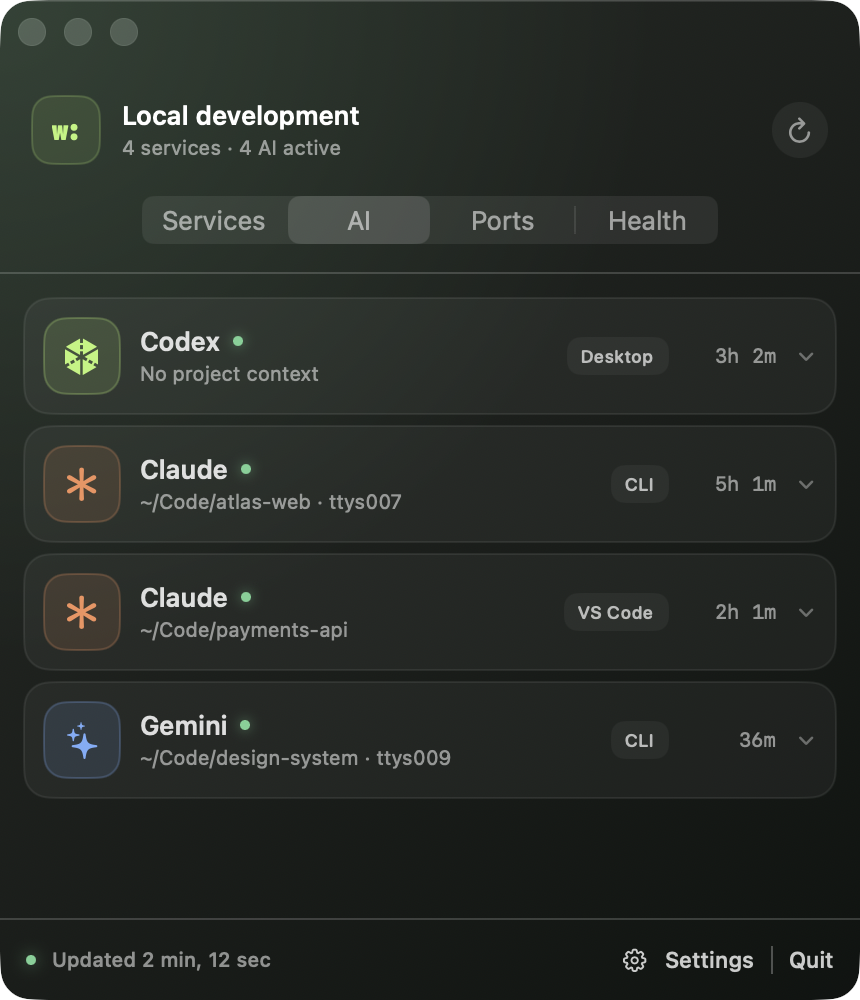
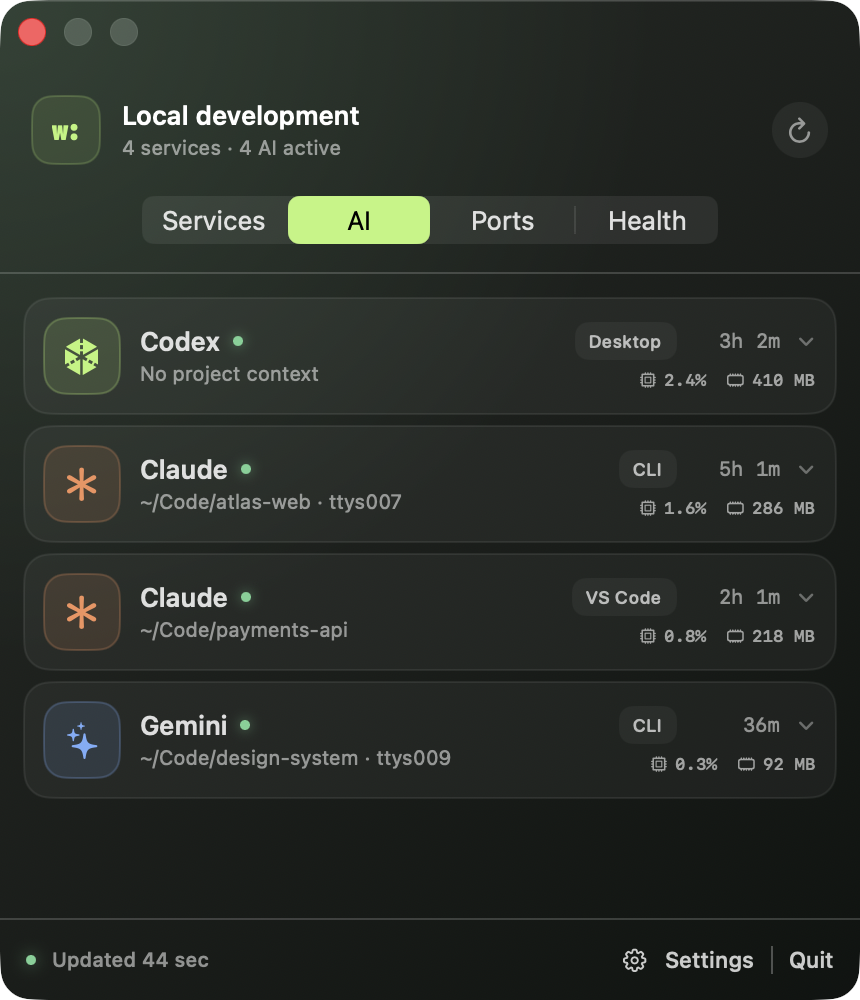
feat: show AI CPU and RAM usage (#5)

diff --git a/WatchioApp/Views/MenuBarContentView.swift b/WatchioApp/Views/MenuBarContentView.swift
@@ -274,19 +274,30 @@ private struct AIActivityRow: View {
             .lineLimit(1)
         }
         Spacer()
-        Text(activity.host.displayName)
-          .font(.system(size: 9, weight: .medium, design: .rounded))
-          .foregroundStyle(.white.opacity(0.68))
-          .padding(.horizontal, 7)
-          .padding(.vertical, 4)
-          .background(Color.white.opacity(0.045), in: RoundedRectangle(cornerRadius: 7))
-        Text(WatchioFormat.uptime(activity))
-          .font(.system(size: 10, design: .monospaced))
-          .foregroundStyle(WatchioPalette.secondaryText)
-          .frame(width: 44, alignment: .trailing)
-        Image(systemName: selected ? "chevron.up" : "chevron.down")
-          .font(.system(size: 8, weight: .bold))
-          .foregroundStyle(WatchioPalette.tertiaryText)
+        VStack(alignment: .trailing, spacing: 5) {
+          HStack(spacing: 8) {
+            Text(activity.host.displayName)
+              .font(.system(size: 9, weight: .medium, design: .rounded))
+              .foregroundStyle(.white.opacity(0.68))
+              .padding(.horizontal, 7)
+              .padding(.vertical, 4)
+              .background(Color.white.opacity(0.045), in: RoundedRectangle(cornerRadius: 7))
+            Text(WatchioFormat.uptime(activity))
+              .font(.system(size: 10, design: .monospaced))
+              .foregroundStyle(WatchioPalette.secondaryText)
+              .frame(width: 44, alignment: .trailing)
+            Image(systemName: selected ? "chevron.up" : "chevron.down")
+              .font(.system(size: 8, weight: .bold))
+              .foregroundStyle(WatchioPalette.tertiaryText)
+          }
+          HStack(spacing: 9) {
+            AIResourceMetric(
+              systemImage: "cpu", label: "CPU", value: WatchioFormat.cpu(activity.cpuPercent))
+            AIResourceMetric(
+              systemImage: "memorychip", label: "RAM",
+              value: WatchioFormat.bytes(activity.memoryBytes))
+          }
+        }
       }
       .padding(10)
       .contentShape(Rectangle())
@@ -300,7 +311,9 @@ private struct AIActivityRow: View {
       RoundedRectangle(cornerRadius: 13, style: .continuous)
         .stroke(selected ? Color.white.opacity(0.13) : WatchioPalette.cardBorder, lineWidth: 1)
     }
-    .accessibilityValue("\(activity.tool.displayName), \(activity.host.displayName)")
+    .accessibilityValue(
+      "\(activity.tool.displayName), \(activity.host.displayName), CPU \(WatchioFormat.cpu(activity.cpuPercent)), RAM \(WatchioFormat.bytes(activity.memoryBytes))"
+    )
     .accessibilityIdentifier("ai-activity-\(activity.id)")
   }
 
@@ -311,6 +324,24 @@ private struct AIActivityRow: View {
   }
 }
 
+private struct AIResourceMetric: View {
+  let systemImage: String
+  let label: String
+  let value: String
+
+  var body: some View {
+    HStack(spacing: 3) {
+      Image(systemName: systemImage)
+        .font(.system(size: 8, weight: .medium))
+      Text(value)
+        .font(.system(size: 8.5, weight: .medium, design: .monospaced))
+    }
+    .foregroundStyle(Color.white.opacity(0.58))
+    .accessibilityElement(children: .ignore)
+    .accessibilityLabel("\(label) \(value)")
+  }
+}
+
 private struct AIActivityDetail: View {
   let activity: DetectedAIActivity
 
@@ -318,8 +349,8 @@ private struct AIActivityDetail: View {
     Grid(alignment: .leading, horizontalSpacing: 14, verticalSpacing: 6) {
       detail("PID", String(activity.representativePID))
       detail("Processes", String(activity.processCount))
-      detail("CPU", String(format: "%.1f%%", activity.cpuPercent))
-      detail("Memory", WatchioFormat.bytes(activity.memoryBytes))
+      detail("CPU (process tree)", WatchioFormat.cpu(activity.cpuPercent))
+      detail("RAM (RSS process tree)", WatchioFormat.bytes(activity.memoryBytes))
       detail("Host", activity.host.displayName)
       detail("Confidence", "\(activity.confidence)%")
       GridRow {

diff --git a/WatchioWidget/WatchioWidget.swift b/WatchioWidget/WatchioWidget.swift
@@ -535,13 +535,20 @@ private struct WidgetAIActivityRow: View {
             .lineLimit(1)
         }
         Spacer()
-        Text(activity.host.displayName)
-          .font(.system(size: expanded ? 8 : 7.5, weight: .medium, design: .rounded))
-          .foregroundStyle(.white.opacity(0.68))
-        Text(widgetUptime(activity))
-          .font(.system(size: expanded ? 8.5 : 7.5, design: .monospaced))
-          .foregroundStyle(WatchioPalette.secondaryText)
-          .frame(width: expanded ? 34 : 27, alignment: .trailing)
+        VStack(alignment: .trailing, spacing: 2) {
+          HStack(spacing: 6) {
+            Text(activity.host.displayName)
+              .font(.system(size: expanded ? 8 : 7.5, weight: .medium, design: .rounded))
+              .foregroundStyle(.white.opacity(0.68))
+            Text(widgetUptime(activity))
+              .font(.system(size: expanded ? 8.5 : 7.5, design: .monospaced))
+              .foregroundStyle(WatchioPalette.secondaryText)
+          }
+          Text("CPU \(widgetCPU(activity.cpuPercent)) · RAM \(widgetMemory(activity.memoryBytes))")
+            .font(.system(size: expanded ? 7.5 : 6.5, weight: .medium, design: .monospaced))
+            .foregroundStyle(Color.white.opacity(0.56))
+            .lineLimit(1)
+        }
       }
       .padding(.horizontal, expanded ? 9 : 6)
       .padding(.vertical, expanded ? 6 : 2)
@@ -558,6 +565,16 @@ private struct WidgetAIActivityRow: View {
     let value = activity.uptime()
     if value >= 3_600 { return "\(Int(value / 3_600))h" }
     return "\(max(1, Int(value / 60)))m"
+  }
+
+  private func widgetCPU(_ value: Double) -> String {
+    String(format: "%.1f%%", value)
+  }
+
+  private func widgetMemory(_ bytes: UInt64) -> String {
+    let mebibytes = Double(bytes) / 1_048_576
+    if mebibytes >= 1_024 { return String(format: "%.1f GB", mebibytes / 1_024) }
+    return "\(Int(mebibytes.rounded())) MB"
   }
 }
 

diff --git a/WatchioUITests/WatchioUITests.swift b/WatchioUITests/WatchioUITests.swift
@@ -15,9 +15,17 @@ final class WatchioUITests: XCTestCase {
   func testDemoAIActivityExposesToolAndHostSemantics() {
     let app = launchApp(additionalArguments: ["--ai-mode"])
 
-    XCTAssertEqual(app.buttons["ai-activity-demo-ai-codex"].value as? String, "Codex, Desktop")
-    XCTAssertEqual(
-      app.buttons["ai-activity-demo-ai-claude-atlas"].value as? String, "Claude, CLI")
+    let codexValue = try? XCTUnwrap(
+      app.buttons["ai-activity-demo-ai-codex"].value as? String)
+    XCTAssertTrue(codexValue?.contains("Codex, Desktop") == true)
+    XCTAssertTrue(codexValue?.contains("CPU 2.4%") == true)
+    XCTAssertTrue(codexValue?.contains("RAM") == true)
+
+    let claudeValue = try? XCTUnwrap(
+      app.buttons["ai-activity-demo-ai-claude-atlas"].value as? String)
+    XCTAssertTrue(claudeValue?.contains("Claude, CLI") == true)
+    XCTAssertTrue(claudeValue?.contains("CPU 1.6%") == true)
+    XCTAssertTrue(claudeValue?.contains("RAM") == true)
   }
 
   func testOnboardingDefaultActionCompletesIntroduction() {

diff --git a/WatchioApp/AppModel.swift b/WatchioApp/AppModel.swift
@@ -224,8 +224,9 @@ final class AppModel {
     let memoryBucket =
       snapshot.services.compactMap(\.memoryBytes).reduce(0, +) / (64 * 1_024 * 1_024)
     let aiCPU = Int(snapshot.aiActivities.map(\.cpuPercent).reduce(0, +) / 5)
+    let aiMemory = snapshot.aiActivities.map(\.memoryBytes).reduce(0, +) / (64 * 1_024 * 1_024)
     return
-      "\(snapshot.collectorState.rawValue)|\(services)|ai:\(aiActivities)|cpu:\(cpuBucket)|mem:\(memoryBucket)|aicpu:\(aiCPU)"
+      "\(snapshot.collectorState.rawValue)|\(services)|ai:\(aiActivities)|cpu:\(cpuBucket)|mem:\(memoryBucket)|aicpu:\(aiCPU)|aimem:\(aiMemory)"
   }
 
   private func normalizedRule(_ rawRule: String) -> String? {

diff --git a/Packages/WatchioCore/Tests/WatchioDetectionTests/ClassifierAndEngineTests.swift b/Packages/WatchioCore/Tests/WatchioDetectionTests/ClassifierAndEngineTests.swift
@@ -168,6 +168,8 @@ final class ClassifierAndEngineTests: XCTestCase {
 
     XCTAssertEqual(result.aiActivities.map(\.tool), [.claude, .codex])
     XCTAssertEqual(result.aiActivities.map(\.processCount), [2, 2])
+    XCTAssertEqual(result.aiActivities.map(\.cpuPercent), [3, 3])
+    XCTAssertEqual(result.aiActivities.map(\.memoryBytes), [20_000, 20_000])
     XCTAssertEqual(result.aiActivities.first?.projectName, "watchio")
     XCTAssertEqual(result.aiActivities.last?.host, .visualStudioCode)
   }

diff --git a/WatchioApp/Views/WatchioStyle.swift b/WatchioApp/Views/WatchioStyle.swift
@@ -24,6 +24,10 @@ enum WatchioFormat {
     return ByteCountFormatter.string(fromByteCount: Int64(bytes), countStyle: .memory)
   }
 
+  static func cpu(_ value: Double) -> String {
+    String(format: "%.1f%%", value)
+  }
+
   static func uptime(_ activity: DetectedAIActivity, now: Date = .now) -> String {
     duration(activity.uptime(referenceDate: now))
   }

diff --git a/README.md b/README.md
@@ -86,7 +86,9 @@ Scores of 60 or more appear automatically. Scores from 40–59 go to **Settings 
 The AI view reuses the same `ps` inventory and recognizes exact executable identities for Codex,
 Claude, Gemini CLI, Aider, OpenCode, Goose, GitHub Copilot CLI, and Cursor Agent. It labels where
 an activity is hosted—CLI, VS Code, desktop, background, or a child agent—and groups ordinary
-descendant processes under the nearest recognized AI process.
+descendant processes under the nearest recognized AI process. Every AI row shows the current CPU
+percentage and resident RAM for that complete logical process tree; the expanded detail exposes
+the representative PID and included process count.
 
 AI detection has a separate, conservative score:
 

diff --git a/docs/detection.md b/docs/detection.md
@@ -85,7 +85,8 @@ non-sensitive evidence used by the score.
 
 The classifier labels an activity as CLI, VS Code, desktop, background, or subagent. Descendant
 helper processes contribute CPU, RSS, process count, and uptime to their nearest recognized AI
-ancestor. A separately executable AI child can remain its own subagent row.
+ancestor. The UI labels CPU and resident RAM as process-tree totals. A separately executable AI
+child can remain its own subagent row with independent totals.
 
 Watchio cannot safely infer a tool when macOS exposes only a generic `node` or `python` executable,
 because arguments are outside the collection contract. It also cannot enumerate logical agents,

diff --git a/CHANGELOG.md b/CHANGELOG.md
@@ -10,6 +10,7 @@ All notable changes follow [Keep a Changelog](https://keepachangelog.com/en/1.1.
   OpenCode, Goose, GitHub Copilot CLI, and Cursor Agent.
 - Added host classification for CLI, VS Code, desktop, background, and separately executable
   subagent processes, with descendant resource aggregation and explainable confidence evidence.
+- Added always-visible CPU and resident RAM totals to AI rows and Medium/Large AI widgets.
 
 ### Changed
 
